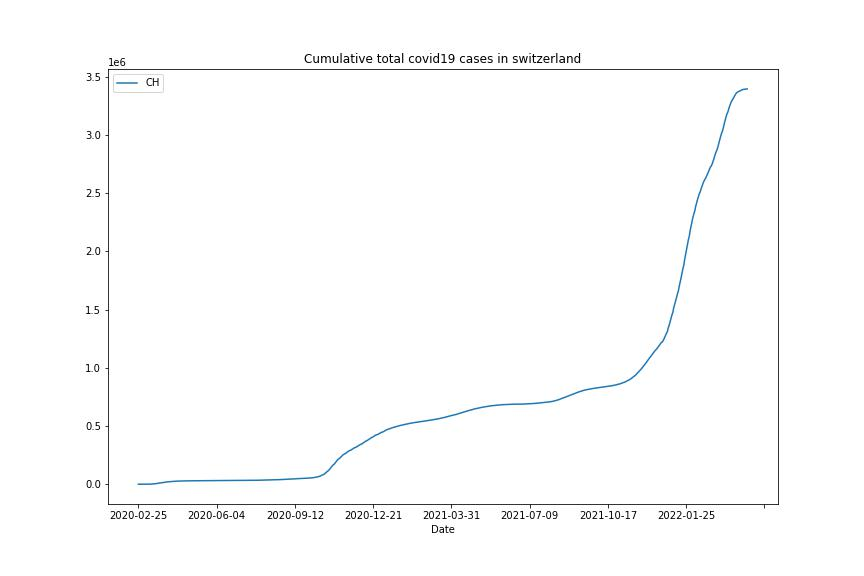
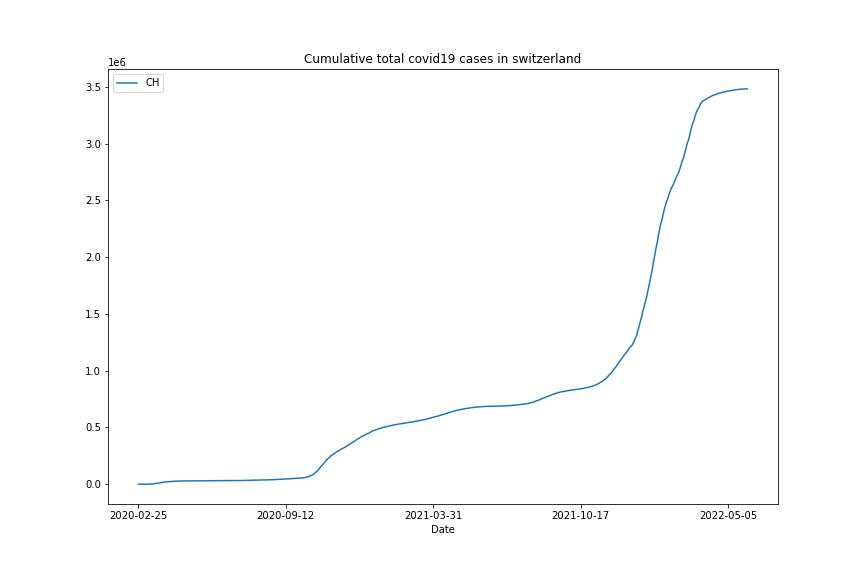
may 2022 update

diff --git a/.ipynb_checkpoints/readme-checkpoint.md b/.ipynb_checkpoints/readme-checkpoint.md
@@ -1,0 +1,18 @@
+# Evolution of covid-19 in switerland
+
+A bunch of quick plots for my own understanding data is directly pulled from Daniel Probst's github (who just aggregates Zurich Hospital's Data) and the data is updated whenever I commit.
+
+## Deaths vs New cases
+Plot of new cases and new deaths since the begining from the first wave, in log scale.
+![deaths_log](cases_deaths_log.jpg)
+
+## Hospitalizations
+![hosp_deaths](hosp_deaths.jpg)
+
+## Last days of new cases :
+
+![](cases_15.jpg)
+
+## New cases vs cummulative cases
+
+![annotated](annotated.jpg)
